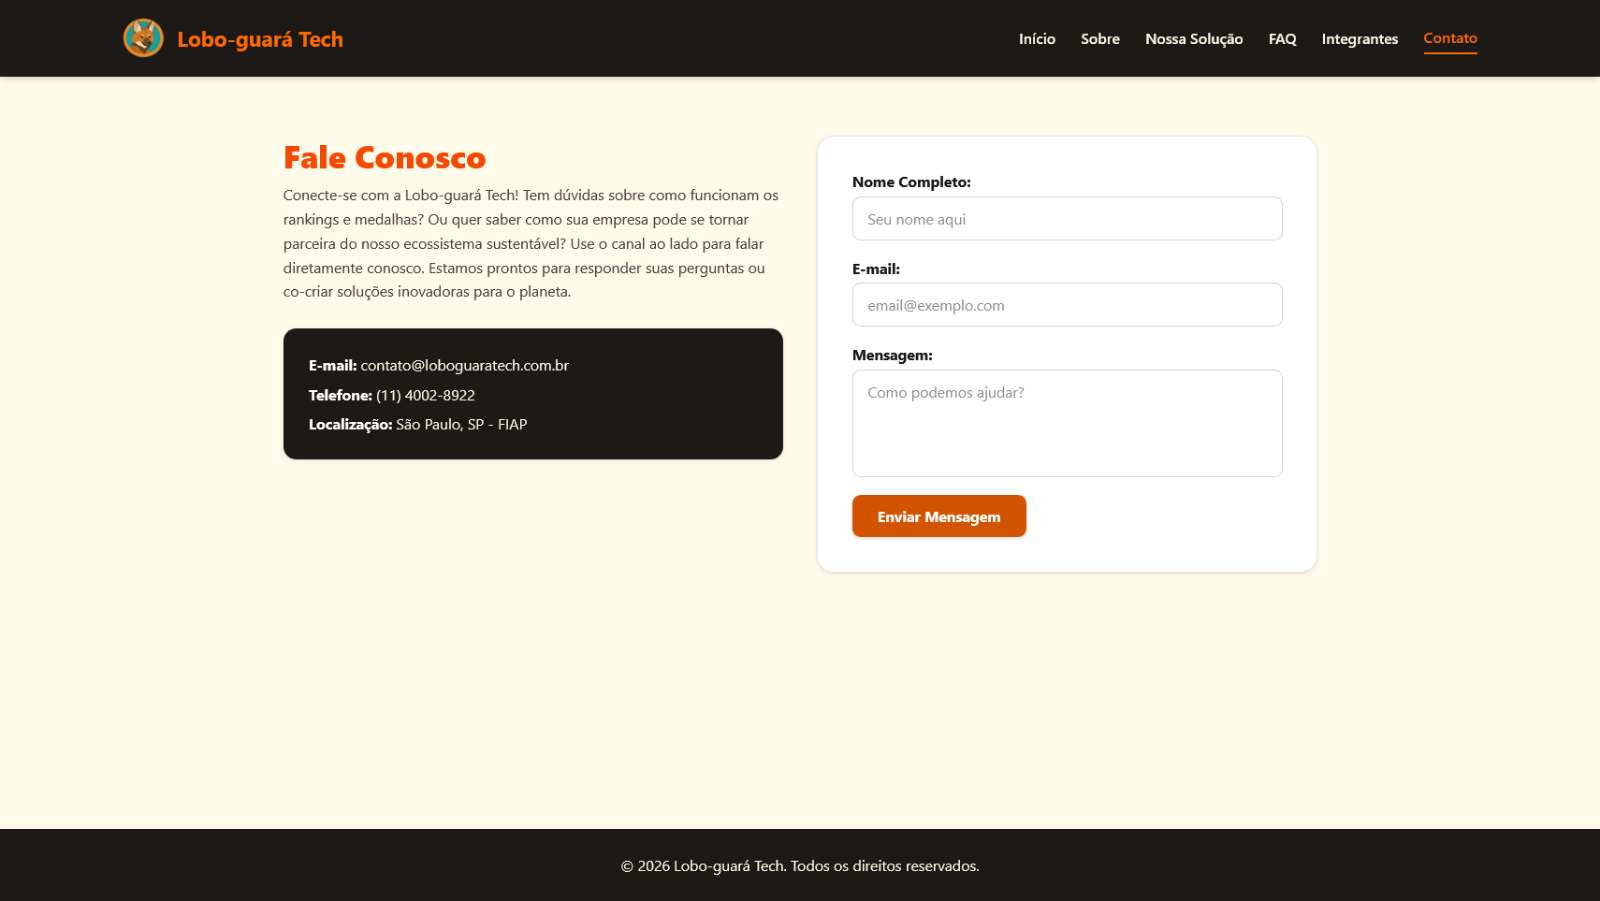
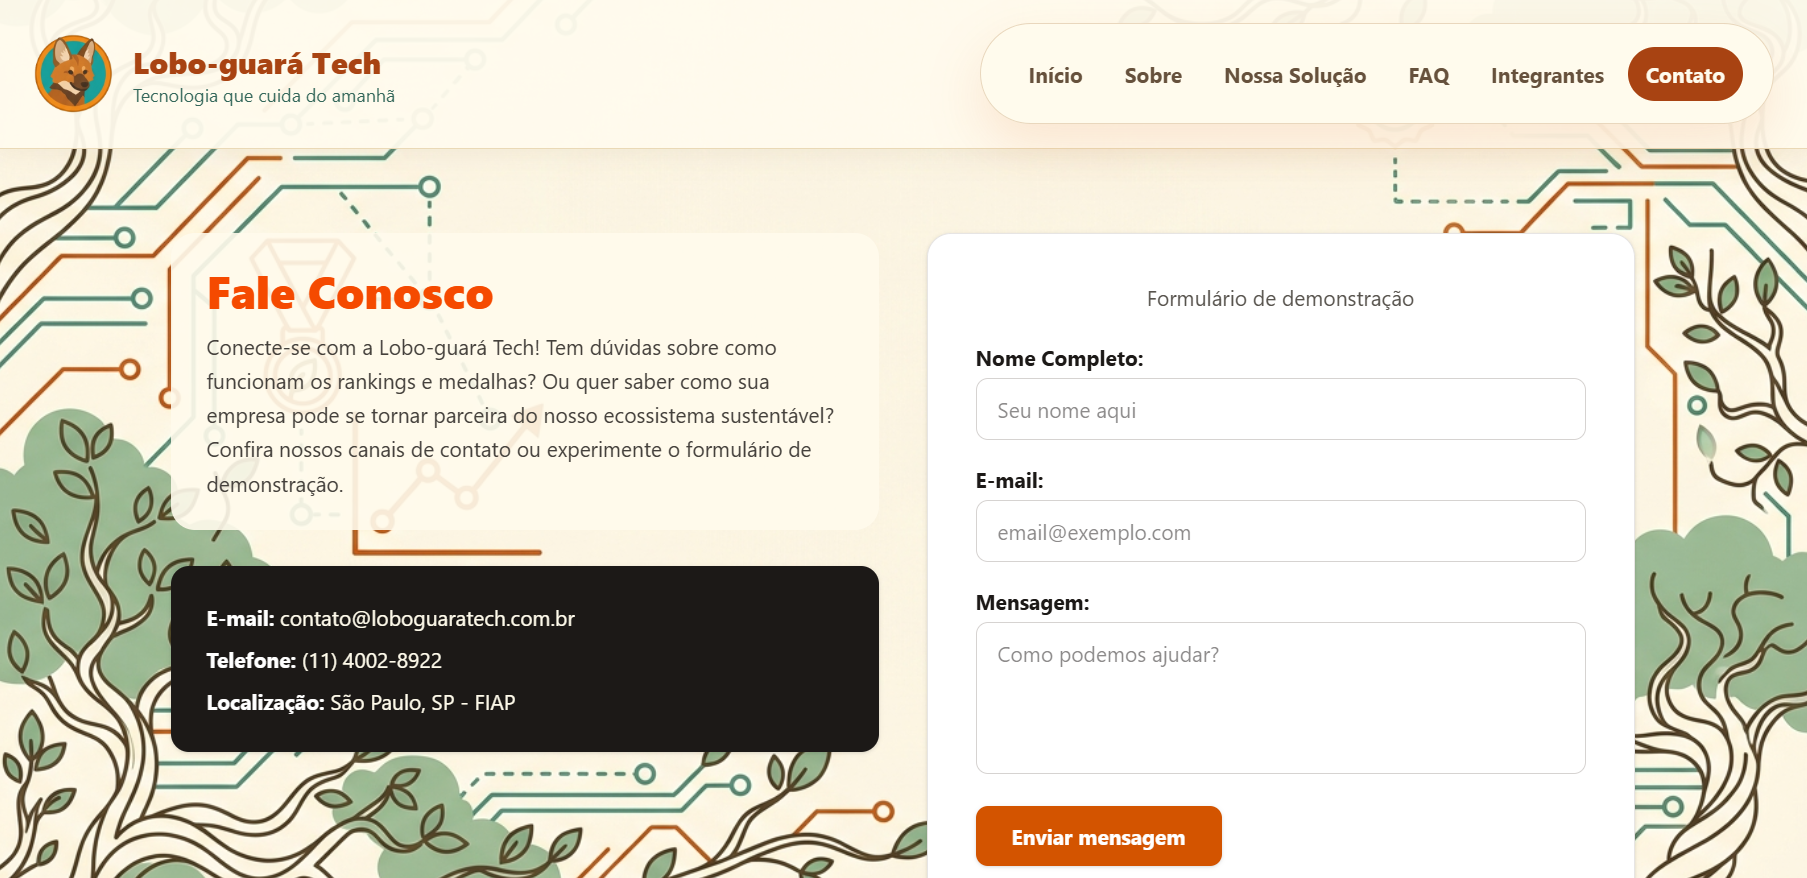
Ajeitei os cards e o fundo

diff --git a/src/pages/Integrantes.tsx b/src/pages/Integrantes.tsx
@@ -19,8 +19,8 @@ const listaIntegrantes: IntegranteProps[] = [
     funcao: 'Líder de Projeto',
     contribuicao: [
       'Gestão e Qualidade: Coordenação do fluxo da equipe, controle de prazos e revisão final de código e conformidade dos artefatos.',
-      'Banco de Dados: Modelagem física no Oracle Data Modeler e geração do script DDL com constraints de integridade (PK, FK, CHECK, UNIQUE)',
-      'Engenharia de Software: Validação das regras de negócio e suporte na estruturação dos diagramas de casos de uso e atividades',
+      'Banco de Dados: Modelagem física no Oracle Data Modeler e geração do script DDL com constraints de integridade (PK, FK, CHECK, UNIQUE).',
+      'Engenharia de Software: Validação das regras de negócio e suporte na estruturação dos diagramas de casos de uso e atividades.',
     ],
     github: 'https://github.com/anabautzer',
     linkedin: 'https://www.linkedin.com/in/ana-bautzer/',
@@ -32,9 +32,9 @@ const listaIntegrantes: IntegranteProps[] = [
     foto: foto2,
     funcao: 'Front-End',
     contribuicao: [
-      'Arquitetura e SPA: Migração para React, Vite e TypeScript com rotas dinâmicas via React Router',
+      'Arquitetura e SPA: Migração para React, Vite e TypeScript com rotas dinâmicas via React Router.',
       'Interface e Estilo: Componentização modular e layout 100% responsivo com Tailwind CSS.',
-      'Formulários e Regras: Validação reativa com React Hook Form tipado e acessibilidade semântica',
+      'Formulários e Regras: Validação reativa com React Hook Form tipado e acessibilidade semântica.',
     ],
     github: 'https://github.com/duduutech',
     linkedin: 'https://www.linkedin.com/in/duduulimatech/',
@@ -60,9 +60,9 @@ const listaIntegrantes: IntegranteProps[] = [
     foto: foto4,
     funcao: 'ChatBot e IA',
     contribuicao: [
-      'Curadoria do Dataset: Coleta, higienização e estruturação da base de dados tabular aderente ao desafio',
-      'Engenharia de Dados: Mapeamento de atributos de entrada (features), qualidade dos registros e definição do label',
-      'Documentação Técnica: Análise da volumetria, justificativa da origem dos dados e objetivos para o modelo de IA',
+      'Curadoria do Dataset: Coleta, higienização e estruturação da base de dados tabular aderente ao desafio.',
+      'Engenharia de Dados: Mapeamento de atributos de entrada (features), qualidade dos registros e definição do label.',
+      'Documentação Técnica: Análise da volumetria, justificativa da origem dos dados e objetivos para o modelo de IA.',
     ],
     github: 'https://github.com/Loutcoun',
     linkedin: 'https://www.linkedin.com/in/lucas-fortunato-317643397/',
@@ -74,9 +74,9 @@ const listaIntegrantes: IntegranteProps[] = [
     foto: foto5,
     funcao: 'Java',
     contribuicao: [
-      'Modelagem & OOP: Estruturação das entidades da camada Model com encapsulamento, construtores e métodos de acesso',
-      'Regras de Negócio: Implementação dos métodos principais com a lógica da solução e classe executável de testes',
-      'Persistência & DAO: Configuração da classe de conexão JDBC e operações completas de CRUD na camada DAO',
+      'Modelagem & OOP: Estruturação das entidades da camada Model com encapsulamento, construtores e métodos de acesso.',
+      'Regras de Negócio: Implementação dos métodos principais com a lógica da solução e classe executável de testes.',
+      'Persistência & DAO: Configuração da classe de conexão JDBC e operações completas de CRUD na camada DAO.',
     ],
     github: 'https://github.com/NickRM22',
     linkedin: 'https://www.linkedin.com/in/nicolas-rodrigues-martins-126607360/',
@@ -100,7 +100,7 @@ export default function Integrantes() {
   return (
     <main className="w-full max-w-7xl mx-auto px-4 py-6 text-center">
       <h1 className="text-3xl font-bold text-orange-600 mb-3">Nossa Equipe</h1>
-      <p className="text-stone-700 text-sm max-w-3xl mx-auto leading-relaxed mb-8">
+      <p className="equipe-intro text-stone-700 text-sm max-w-3xl mx-auto leading-relaxed mb-8">
         A Lobo-guará Tech nasceu com o propósito de unir a inovação tecnológica da Sociedade 5.0 à
         urgência da preservação ambiental. Nosso objetivo é transformar hábitos ecológicos do dia a
         dia em uma experiência engajadora e recompensadora através da gamificação. Acreditamos que o

diff --git a/src/pages/Home.tsx b/src/pages/Home.tsx
@@ -27,23 +27,25 @@ export default function Home() {
     <main className="w-full max-w-6xl mx-auto px-4 py-12 flex flex-col items-center">
       
       <section aria-labelledby="hero-title" className="text-center max-w-4xl mx-auto mb-20">
-        <h1
-          id="hero-title"
-          className="text-3xl sm:text-4xl md:text-5xl font-extrabold text-stone-900 tracking-tight mb-6"
-        >
-          Tecnologia com rastro de inovação e sustentabilidade
-        </h1>
+        <div className="relative z-10 bg-[#fffbed]/90 rounded-2xl px-6 py-6 md:px-10 md:py-8">
+          <h1
+            id="hero-title"
+            className="text-3xl sm:text-4xl md:text-5xl font-extrabold text-stone-900 tracking-tight mb-6"
+          >
+            Tecnologia com rastro de inovação e sustentabilidade
+          </h1>
 
-        <p className="text-stone-700 text-base sm:text-lg leading-relaxed mb-8 max-w-2xl mx-auto">
-          Transformamos ações sustentáveis em recompensas reais unindo gamificação, tecnologia e hábitos sustentáveis.
-        </p>
+          <p className="text-stone-700 text-base sm:text-lg leading-relaxed mb-8 max-w-2xl mx-auto">
+            Transformamos ações sustentáveis em recompensas reais unindo gamificação, tecnologia e hábitos sustentáveis.
+          </p>
 
-        <Link
-          to="/sobre"
-          className="wave-button inline-flex items-center justify-center px-8 py-3 rounded-lg bg-[#D35400] hover:bg-[#b84500] text-white font-bold shadow-sm transition-colors"
-        >
-          Conheça o Projeto
-        </Link>
+          <Link
+            to="/sobre"
+            className="wave-button inline-flex items-center justify-center px-8 py-3 rounded-lg bg-[#D35400] hover:bg-[#b84500] text-white font-bold shadow-sm transition-colors"
+          >
+            Conheça o Projeto
+          </Link>
+        </div>
       </section>
 
       

diff --git a/src/pages/Solucao.tsx b/src/pages/Solucao.tsx
@@ -81,13 +81,15 @@ export default function Solucao() {
     <main className="w-full max-w-6xl mx-auto px-4 py-12 flex flex-col items-center">
       {/* Apresentação do Ecossistema */}
       <section className="text-center max-w-4xl mx-auto mb-12">
-        <h1 className="text-3xl sm:text-4xl font-extrabold text-stone-900 mb-4">
-          O Ecossistema Lobo-guará Tech
-        </h1>
-        <p className="text-stone-700 text-sm sm:text-base leading-relaxed">
-          Nossa plataforma vai além de um aplicativo de tarefas: criamos uma{' '}
-          <strong className="text-stone-900 font-semibold">rede de impacto socioambiental</strong>. Através da união entre tecnologia, validação comunitária e incentivos reais, transformamos a conscientização ecológica em hábitos diários e mensuráveis.
-        </p>
+        <div className="relative z-10 bg-[#fffbed]/90 rounded-2xl px-6 py-6 md:px-10 md:py-8">
+          <h1 className="text-3xl sm:text-4xl font-extrabold text-stone-900 mb-4">
+            O Ecossistema Lobo-guará Tech
+          </h1>
+          <p className="text-stone-700 text-sm sm:text-base leading-relaxed">
+            Nossa plataforma vai além de um aplicativo de tarefas: criamos uma{' '}
+            <strong className="text-stone-900 font-semibold">rede de impacto socioambiental</strong>. Através da união entre tecnologia, validação comunitária e incentivos reais, transformamos a conscientização ecológica em hábitos diários e mensuráveis.
+          </p>
+        </div>
       </section>
 
   

diff --git a/src/pages/Contato.tsx b/src/pages/Contato.tsx
@@ -19,7 +19,7 @@ export default function Contato() {
     <main className="max-w-5xl mx-auto p-4 sm:p-6 grid grid-cols-1 md:grid-cols-2 gap-8 items-start">
       {/* Informações de Contato */}
       <div className="space-y-6">
-        <div>
+        <div className="relative z-10 bg-[#fffbed]/90 rounded-2xl px-6 py-5">
           <h1 className="text-3xl font-extrabold text-orange-600 mb-2">Fale Conosco</h1>
           <p className="text-stone-700 text-sm leading-relaxed">
             Conecte-se com a Lobo-guará Tech! Tem dúvidas sobre como funcionam os rankings e
@@ -44,8 +44,8 @@ export default function Contato() {
 
       {/* Formulário com React Hook Form */}
       <div className="bg-white p-6 sm:p-8 rounded-2xl border border-stone-200 shadow-sm">
-        <p id="aviso-formulario" className="mb-5 text-sm text-stone-600">
-          Formulário de demonstração: os campos são validados, mas a mensagem ainda não é enviada.
+        <p id="aviso-formulario" className="mb-5 text-sm text-stone-600 text-center">
+          Formulário de demonstração
         </p>
 
         {mensagemValidada && (
@@ -164,7 +164,7 @@ export default function Contato() {
           </div>
 
           <Botao tipo="submit" className="w-full sm:w-auto">
-            Validar Mensagem
+            Enviar mensagem
           </Botao>
         </form>
       </div>

diff --git a/src/pages/Sobre.tsx b/src/pages/Sobre.tsx
@@ -65,7 +65,7 @@ export default function Sobre() {
     <main className="w-full max-w-5xl mx-auto px-4 py-10 space-y-16">
       {/* Contexto e Problema */}
       <section aria-labelledby="contexto-title" className="space-y-4">
-        <div>
+        <div className="relative z-10 inline-block bg-[#fffbed]/90 rounded-xl px-4 py-2">
           <span className="text-xs font-bold tracking-widest text-[#D35400] uppercase block mb-1">
             O Desafio
           </span>
@@ -105,7 +105,7 @@ export default function Sobre() {
 
       
       <section aria-labelledby="solucao-title" className="space-y-6">
-        <div>
+        <div className="relative z-10 inline-block bg-[#fffbed]/90 rounded-xl px-4 py-2">
           <span className="text-xs font-bold tracking-widest text-[#D35400] uppercase block mb-1">
             Nossa Resposta
           </span>
@@ -135,7 +135,7 @@ export default function Sobre() {
 
       {/* Linha do Tempo e Roadmap */}
       <section aria-labelledby="roadmap-title" className="space-y-6">
-        <div>
+        <div className="relative z-10 inline-block bg-[#fffbed]/90 rounded-xl px-4 py-2">
           <span className="text-xs font-bold tracking-widest text-[#D35400] uppercase block mb-1">
             Próximos Passos
           </span>

diff --git a/src/index.css b/src/index.css
@@ -20,10 +20,10 @@
   inset: 0;
   z-index: -1;
   pointer-events: none;
-  background-image: url('./assets/papel-de-parede.png');
+  background-image: url('./assets/papel-fundo.jpg');
   background-repeat: no-repeat;
   background-position: center;
-  background-size: contain;
+  background-size: cover;
 }
 
 @media (orientation: portrait) {
@@ -159,6 +159,29 @@
 
 .animate-fade-in {
   animation: fadeIn 0.3s ease-out forwards;
+}
+
+/* Cards para os textos */
+.equipe-intro {
+  max-width: 850px;
+  margin: 0 auto 2.5rem;
+  padding: 1.5rem 2rem;
+  background-color: rgba(255, 253, 245, 0.95); /* tom próximo do bege do fundo, mas quase opaco */
+  border-radius: 16px;
+  position: relative;
+  z-index: 1;
+  text-align: center;
+}
+
+.conteudo-legivel {
+  max-width: 700px;
+  margin: 0 auto;
+  padding: 1.5rem 2rem;
+  background-color: rgba(255, 253, 245, 0.9);
+  border-radius: 16px;
+  position: relative;
+  z-index: 1;
+  text-align: center;
 }
 
 @media (prefers-reduced-motion: reduce) {

diff --git a/README.md b/README.md
@@ -50,16 +50,17 @@ front-2.0-main/
 │   │   ├── github.svg           # Ícone do GitHub
 │   │   ├── linkedin.svg         # Ícone do LinkedIn
 │   │   ├── Guara.png            # Logotipo oficial Lobo-guará Tech
+│   │   ├── papel-fundo.jpg      # Papel de parede
 │   │   ├── Pic1.png             # Foto do integrante 1
 │   │   ├── Pic2.png             # Foto do integrante 2
 │   │   ├── Pic3.png             # Foto do integrante 3
 │   │   ├── Pic4.png             # Foto do integrante 4
 │   │   ├── Pic5.png             # Foto do integrante 5
-│   │   ├── index1.png           # Foto da página inicial - Home
-│   │   ├── sobre1.png           # Foto da página Sobre
-│   │   ├── solucao1.png         # Foto da página Solução
-│   │   ├── faq1.png             # Foto da página FAQ
-│   │   ├── integrantes1.png     # Foto da página integrantes
+│   │   ├── index.png            # Foto da página inicial - Home
+│   │   ├── sobre.png            # Foto da página Sobre
+│   │   ├── solucao.png          # Foto da página Solução
+│   │   ├── faq.png              # Foto da página FAQ
+│   │   ├── integrantes.png      # Foto da página integrantes
 │   │   └── contato.png          # Foto da página Contato
 │   │
 │   ├── components/              # Componentes reutilizáveis
@@ -124,23 +125,23 @@ O desenvolvimento deste projeto foi idealizado e executado pela equipe de estuda
 Abaixo estão as representações visuais das telas que compõem a plataforma, demonstrando a consistência do design, o uso estratégico da paleta de cores institucional e a aplicação de técnicas avançadas de responsividade. As imagens estão localizadas na pasta `src/assets`.
 
 ### 💻 1. Interface Desktop (Página Inicial - Home)
-![Demonstração da Home Page](src/assets/index1.png)
+![Demonstração da Home Page](src/assets/index.png)
 *Legenda: Seção principal projetada com contraste refinado, tipografia focada na legibilidade e foco na conversão imediata do usuário para conhecer o projeto.*
 
 ### 📄 2. Página Institucional (Sobre)
-![Demonstração da Página Sobre](src/assets/sobre1.png)
+![Demonstração da Página Sobre](src/assets/sobre.png)
 *Legenda: Apresentação do contexto e problema, os tipos de solução e um roadmap de desenvolvimento.*
 
 ### 🚀 3. Detalhamento da Funcionalidade (Solução)
-![Demonstração da Página de Solução](src/assets/solucao1.png)
+![Demonstração da Página de Solução](src/assets/solucao.png)
 *Legenda: Explicação detalhada do ecossistema de gamificação, regras e a dinâmica de pontuação.*
 
 ### 📱 4. Componente de FAQ Expandido (FAQ)
-![Demonstração do FAQ Responsivo](src/assets/faq1.png)
+![Demonstração do FAQ Responsivo](src/assets/faq.png)
 *Legenda: Menu do tipo Accordion tratando quebras de linhas de forma fluida por meio de componentes React e manipulação dinâmica do estado.*
 
 ### 👥 5. Página do Time (Integrantes)
-![Demonstração da Página de Integrantes](src/assets/integrantes1.png)
+![Demonstração da Página de Integrantes](src/assets/integrantes.png)
 *Legenda: Grid responsivo exibindo os cartões dos desenvolvedores com fotos customizadas e links integrados para redes profissionais.*
 
 ### ✉ 6. Canal de Atendimento e Feedback (Contato)
